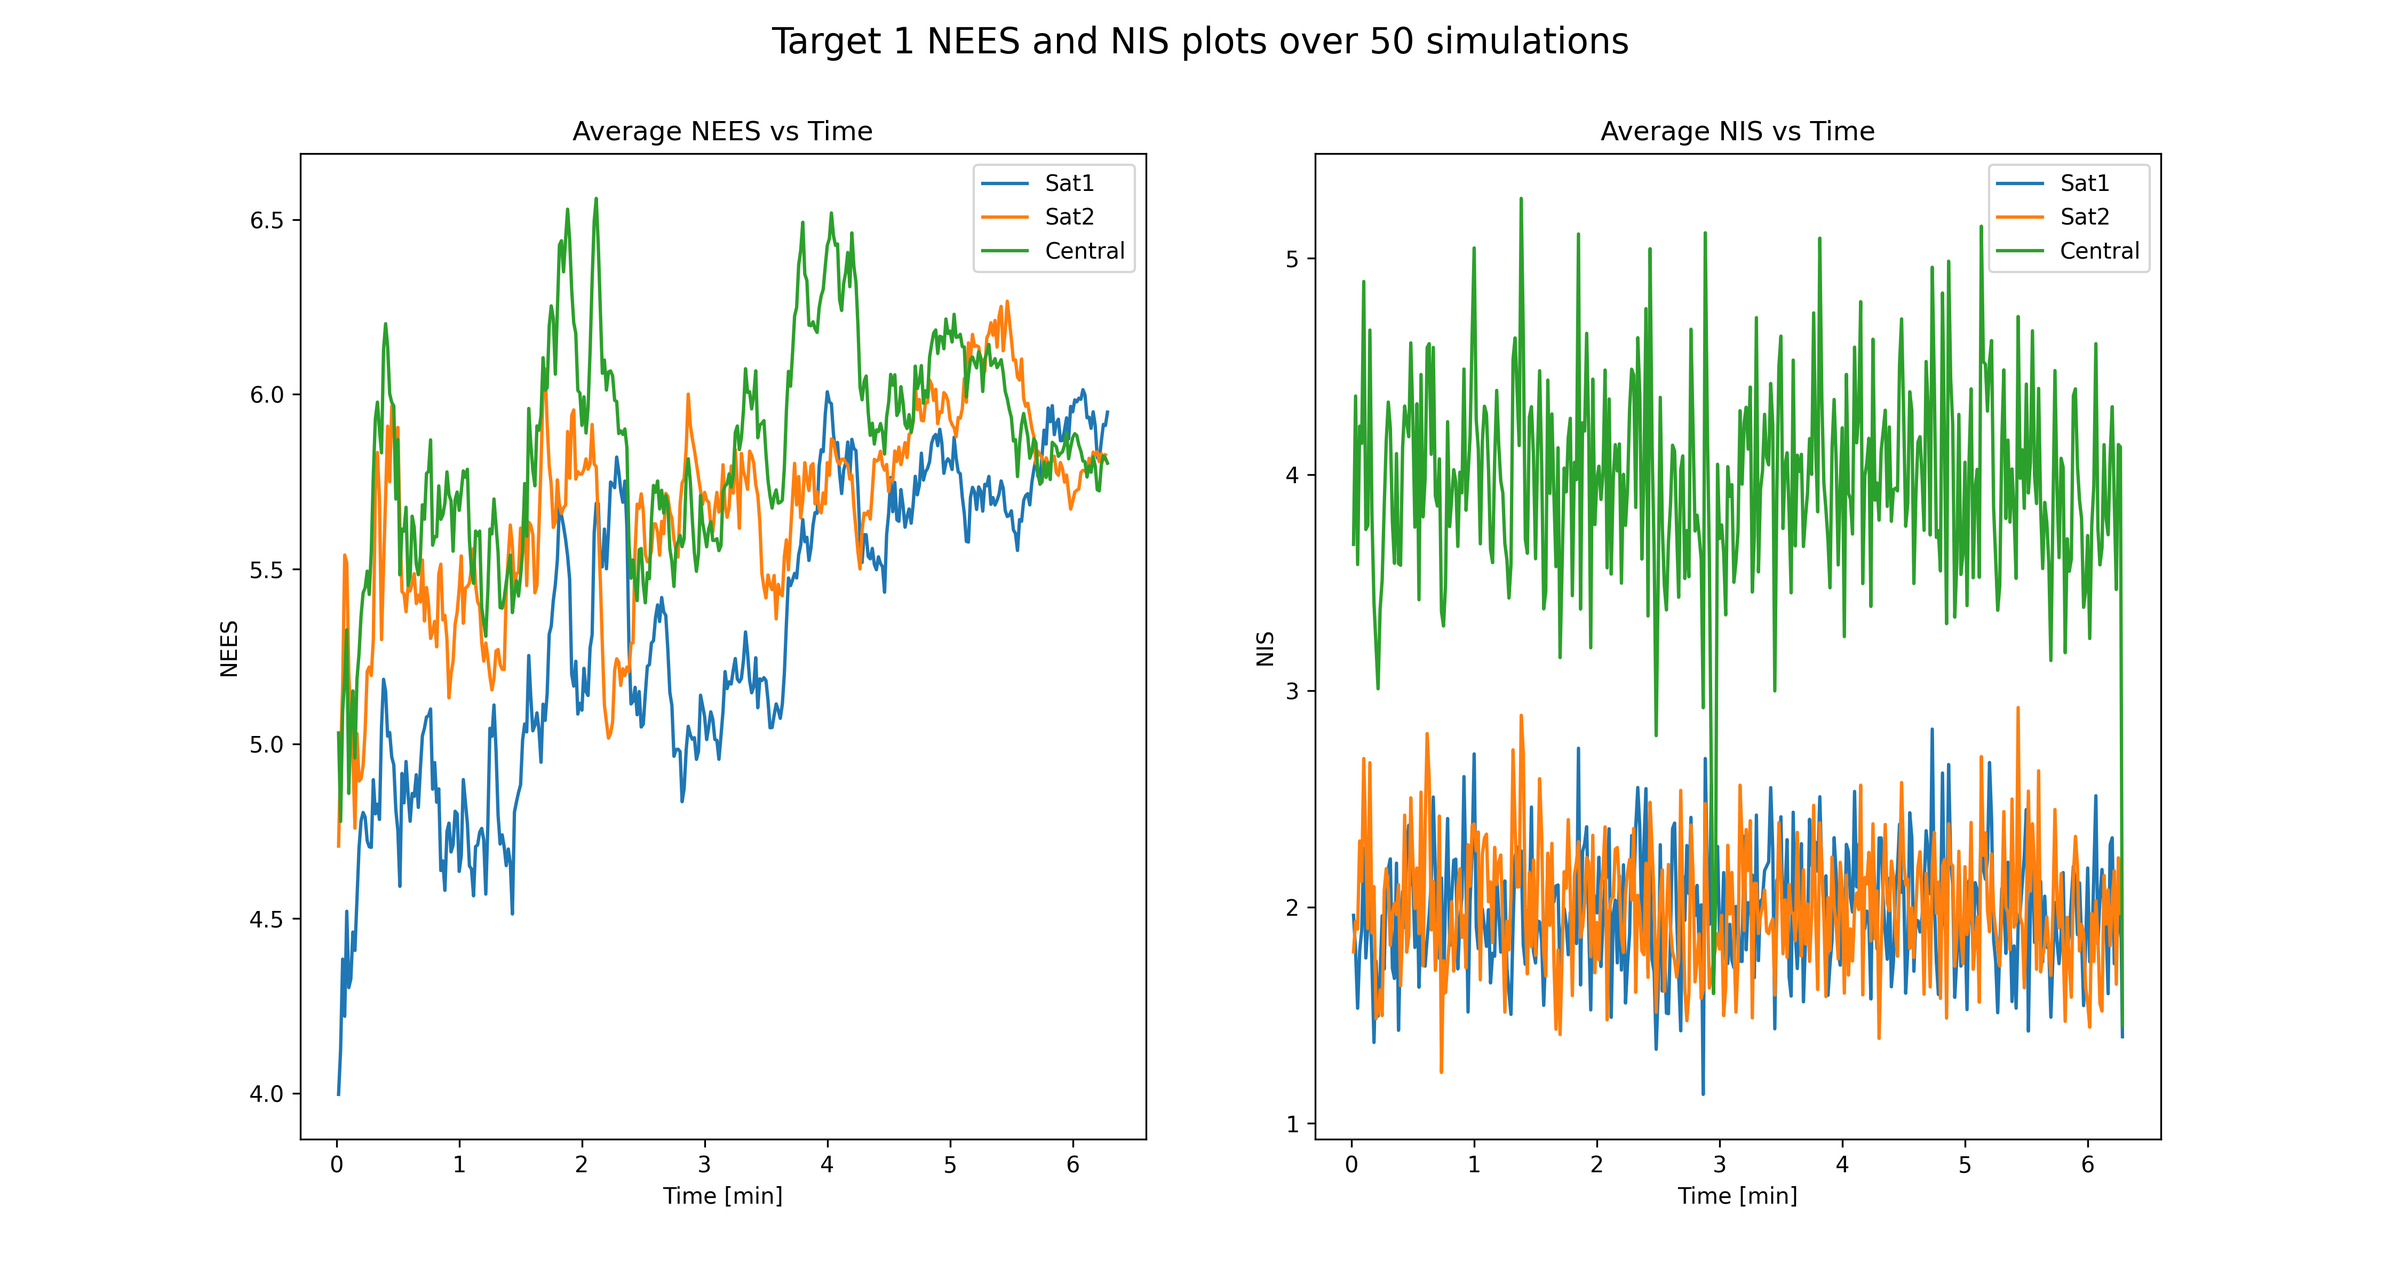
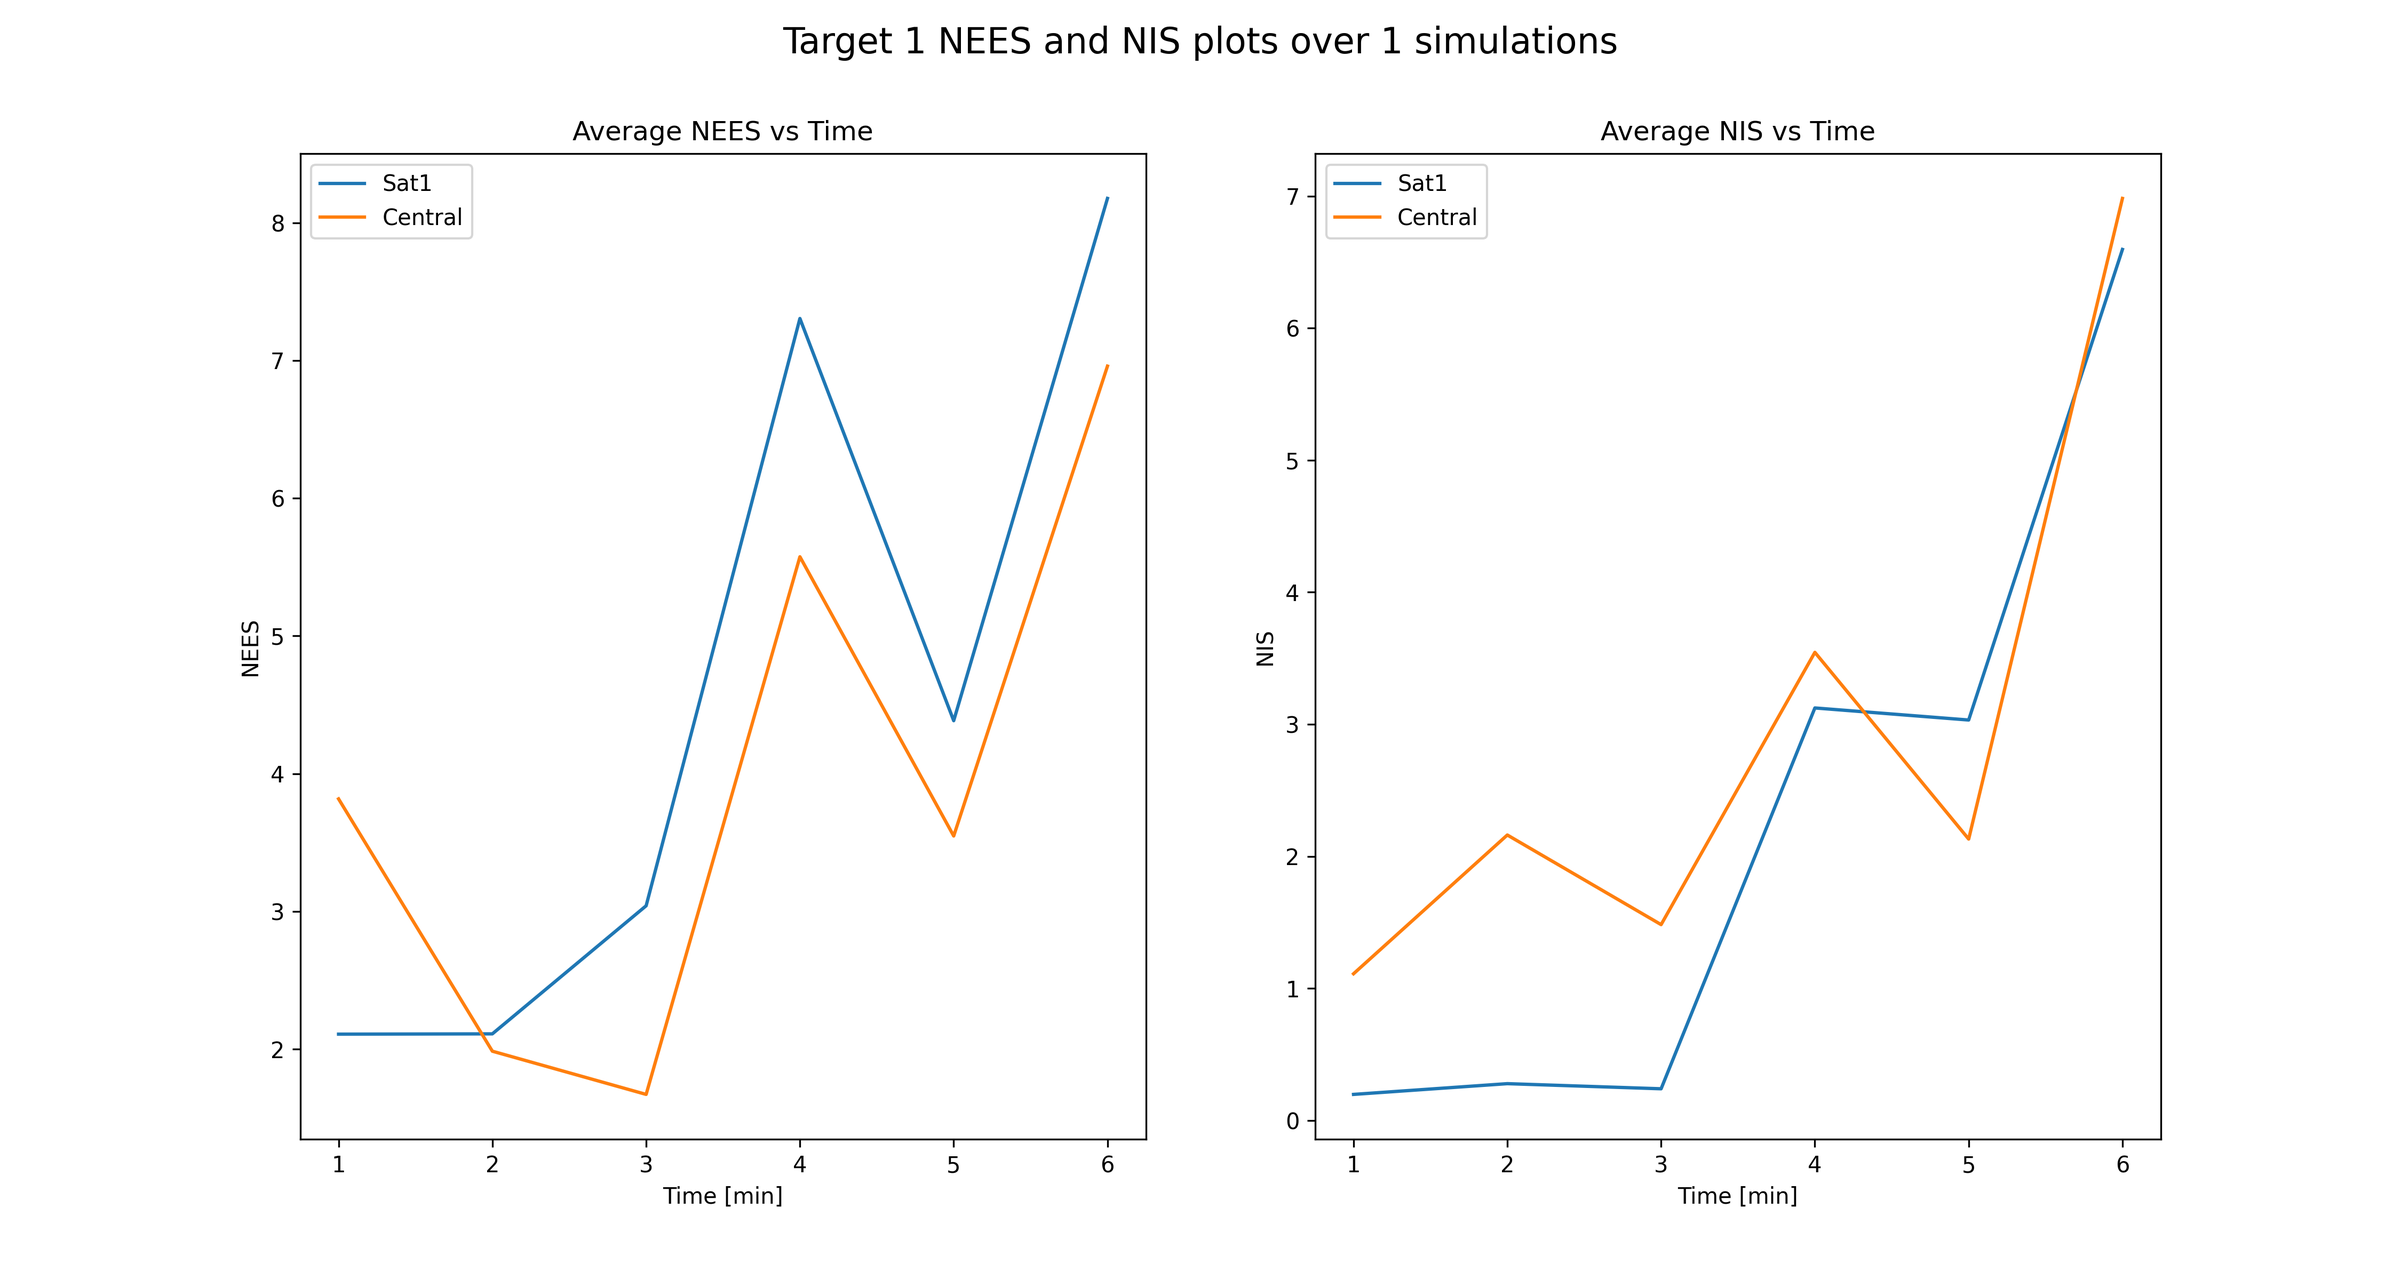
Squashed commit of the following:
commit 5e647257f25288f2edd2f32f9247ae3764552099
Merge: 92c8e0ce 59719893
Author: nolans12 <stevenson.r.nolan@gmail.com>
Date:   Thu Jun 20 12:42:54 2024 -0600

    Merge branch 'AidanBranch' of https://github.com/nolans12/Satellite-DDF into AidanBranch

commit 5971989326fef7af2d4452152ceea3dc8b31e62b
Author: aiba4531 <aiba4531@colorado.edu>
Date:   Thu Jun 20 12:00:19 2024 -0600

    Added AoA option mostly

commit 89277a5613da0652b87630bc921ffd2adf471cfc
Author: aiba4531 <aiba4531@colorado.edu>
Date:   Thu Jun 20 10:06:34 2024 -0600

    Updated CI

commit 92c8e0ce4371348021b847ea17da06491982ce9d
Merge: 292d686b ed1f56c8
Author: nolans12 <stevenson.r.nolan@gmail.com>
Date:   Wed Jun 19 21:29:31 2024 -0600

    Merge branch 'AidanBranch' of https://github.com/nolans12/Satellite-DDF into AidanBranch

commit ed1f56c82b9181cd8a2cd30a7c9062af05f47ad3
Author: aiba4531 <aiba4531@colorado.edu>
Date:   Wed Jun 19 21:01:07 2024 -0600

    Added Covariance Intersection functionality, needs tuning

commit 4db0e1dfe0fcc63f4e059b1fdf66f190e770999f
Merge: b392ebf9 66b76008
Author: aiba4531 <aiba4531@colorado.edu>
Date:   Wed Jun 19 19:48:34 2024 -0600

    Added ClimbRate

commit b392ebf921e65eb89bda892fe74528528f66bc70
Merge: 61dea849 dc4b83ce
Author: aiba4531 <aiba4531@colorado.edu>
Date:   Tue Jun 18 14:11:46 2024 -0600

    For Nolan Merge

commit 61dea8491d8fc0cd5a754a402c76b4a4e6d29efb
Merge: 39a25a9b cead9f0a
Author: aiba4531 <aiba4531@colorado.edu>
[…]

diff --git a/phase1/main.py b/phase1/main.py
@@ -5,7 +5,7 @@ from import_libraries import *
 from satelliteClass import satellite
 from targetClass import target
 from environmentClass import environment
-from estimatorClass import centralEstimator, localEstimator
+from estimatorClass import centralEstimator, localEstimator, dataFusion
 from sensorClass import sensor
 from commClass import comms
 
@@ -20,21 +20,24 @@ def create_environment():
     # Define targets for the satellites to track:
     targetIDs = [1]
 
-    # Define estimators:
+    # Define local estimators:
     local1 = localEstimator(targetIDs = targetIDs)
     local2 = localEstimator(targetIDs = targetIDs)
-    central = centralEstimator(targetIDs = targetIDs) 
+    central = centralEstimator(targetIDs = targetIDs) # TODO: why not just make centralized always do all targets? since it is the baseline?
 
+    # Define the Data Fusion Algorithm
+    dataFusionAlg = dataFusion(targetIDs = targetIDs)
+    
     # Define the satellites:
-    sat1 = satellite(name = 'Sat1', sensor = sens1, targetIDs=targetIDs, estimator = local1, a = Earth.R + 1000 * u.km, ecc = 0, inc = 90, raan = 0, argp = 80, nu = 0, color='b')
-    sat2 = satellite(name = 'Sat2', sensor = sens2, targetIDs=targetIDs, estimator = local2, a = Earth.R + 1000 * u.km, ecc = 0, inc = 90, raan = -45, argp = 80, nu = 0, color='r')
+    sat1 = satellite(name = 'Sat1', sensor = sens1, targetIDs=targetIDs, estimator = local1, dataFusion=dataFusionAlg, a = Earth.R + 1000 * u.km, ecc = 0, inc = 45, raan = 0, argp = 80, nu = 0, color='b')
+    sat2 = satellite(name = 'Sat2', sensor = sens2, targetIDs=targetIDs, estimator = local2, dataFusion=dataFusionAlg, a = Earth.R + 1000 * u.km, ecc = 0, inc = 90, raan = -45, argp = 80, nu = 0, color='r')
 
     sats = [sat1, sat2]
 
     # Define the target objects:
-    targ1 = target(name = 'Targ1', targetID=1, cords = np.array([90,0,0]), heading=0, speed=5, color = 'k')
-    targ2 = target(name = 'Targ2', targetID=2, cords = np.array([0,0,200]), heading=90, speed=100, color = 'r')
-    targs = [targ1]
+    targ1 = target(name = 'Targ1', targetID=1, cords = np.array([90,0,0]), heading=0, speed=5, climbrate = 0, color = 'k')
+    #targ2 = target(name = 'Targ2', targetID=2, cords = np.array([0,0,200]), heading=90, speed=100, climbrate = 1, color = 'r')
+    targs = [targ1]#, targ2]
 
     # Define the communication network:
     comms_network = comms(sats, maxNeighbors = 3, maxRange = 5000*u.km, minRange = 500*u.km, displayStruct = True)
@@ -107,21 +110,21 @@ def plot_NEES_NIS(simData):
 
 if __name__ == "__main__":
     # Vector of time for simulation:
-    time_vec = np.linspace(0, 10, 601) * u.minute
+    time_vec = np.linspace(0, 10, 11) * u.minute
 
     # Number of simulations:
-    numSims = 50
+    numSims = 1
     simData = defaultdict(dict)
     for i in range(numSims):
         print(f'Simulation {i + 1} out of {numSims}')
         # Create a new environment instance for each simulation run:
         env = create_environment()
         # Simulate the satellites through the vector of time:
-        simData[i] = env.simulate(time_vec, savePlot = True, saveName = str(i + 1), showSim = False)
+        simData[i] = env.simulate(time_vec, savePlot = True, saveName = str(i + 1), showSim = True)
 
         
     # Plot the NEES and NIS results:
-    plot_NEES_NIS(simData)
+    #plot_NEES_NIS(simData)
     
 
 # ### CLUSTER SIM BELOW:
@@ -139,6 +142,7 @@ if __name__ == "__main__":
 #     sens2_4 = sensor(name = 'Sensor 2.4', fov = 100, bearingsError = np.array([0.5, 0.5]), rangeError = 0.5, detectChance= 0.05, resolution = 720)
     
 #     # Define targets for the satellites to track:
+#     # TODO: should we just make the satellite track any target it can see?
 #     targetIDs = [1]
 
 
@@ -176,13 +180,13 @@ if __name__ == "__main__":
 #     targs = [targ1]
 
 # # Define the communication network:
-#     comms = comms(sats, maxNeighbors = 100, maxRange = 5000*u.km, minRange = 500*u.km, displayStruct = True)
+#     comms = comms(sats, range = 5000 * u.km, displayStruct = True)
 
 # # Create an environment instance:
 #     env = environment(sats, targs, comms, central)
 
 # # Simulate the satellites through a vector of time:
-#     time_vec = np.linspace(0, 50, 151) * u.minute
+#     time_vec = np.linspace(0, 50, 51) * u.minute
 #     env.simulate(time_vec, display = True)
 
 # # Save the gif:

diff --git a/phase1/environmentClass.py b/phase1/environmentClass.py
@@ -87,7 +87,7 @@ class environment:
         for sat in self.sats:
             sat.time = time_val
 
-    # Propagate the targets position
+        # Propagate the targets position
         for targ in self.targs:
 
             # Propagate the target
@@ -112,6 +112,18 @@ class environment:
         # Collect measurements on any avaliable targets
             collectedFlag[satNum] = sat.collect_measurements(self.targs) # if any measurement was collected, will be true
             satNum += 1
+            
+        # Check if other satellites collected information on same target -> do data fusion
+        CI_threshold = 1
+        if self.comms.displayStruct:
+            for sat in self.sats:
+                for sat2 in self.sats:
+                    if sat != sat2:
+                        if self.comms.G.has_edge(sat, sat2):
+                            for targetID in sat.targetIDs:
+                                if targetID in sat2.targetIDs:
+                                    if any(collectedFlag == 1): # TODO: if either satellite collected data or if threshold is met
+                                        sat.dataFusion.covariance_intersection(sat, sat2, targetID, time_val)                                    
 
         # Update Central Estimator on all targets if measurments were collected
         if any(collectedFlag == 1) and self.centralEstimator:
@@ -220,18 +232,29 @@ class environment:
                     covHist = sat.estimator.covarianceHist[targ.targetID]
                     innovationHist = sat.estimator.innovationHist[targ.targetID]
                     innovationCovHist = sat.estimator.innovationCovHist[targ.targetID]
+                    
+                    # Adding in Data Fusion Estimate
+                    CI_estHist = sat.dataFusion.CI_estHist[targ.targetID]
+                    CI_covHist = sat.dataFusion.CI_covHist[targ.targetID]
+                    
                     times = [time for time in time_vec.value if time in estHist]
+                    CI_times = [time for time in time_vec.value if time in CI_estHist]
 
                     # MEASUREMENT PLOTS
                     for i in range(6):
                         axes[i].scatter(times, [trueHist[time][i] for time in times], color='k', label='Truth', marker='o', s=15)
                         axes[i].plot(times, [estHist[time][i] for time in times], color=satColor, label='Kalman Estimate')
+                        axes[i].plot(CI_times, [CI_estHist[time][i] for time in CI_times], color='g', label='CI Estimate', marker='*')
 
                     # ERROR PLOTS
                     for i in range(6):
                         axes[6 + i].plot(times, [estHist[time][i] - trueHist[time][i] for time in times], color=satColor, linestyle='dashed', label='Error')
                         axes[6 + i].plot(times, [2 * np.sqrt(covHist[time][i][i]) for time in times], color=satColor, linestyle='dotted', label='2 Sigma Bounds')
                         axes[6 + i].plot(times, [-2 * np.sqrt(covHist[time][i][i]) for time in times], color=satColor, linestyle='dotted')
+                        
+                        axes[6 + i].plot(CI_times, [CI_estHist[time][i] - trueHist[time][i] for time in CI_times], color='g', linestyle='dashed', label='CI Error')
+                        axes[6 + i].plot(CI_times, [2 * np.sqrt(CI_covHist[time][i][i]) for time in CI_times], color='g', linestyle='dotted', label='CI 2 Sigma Bounds')
+                        axes[6 + i].plot(CI_times, [-2 * np.sqrt(CI_covHist[time][i][i]) for time in CI_times], color='g', linestyle='dotted')
 
                     # INNOVATION PLOTS
                     for i in range(2):  # Note: only 3 plots in the third row

diff --git a/phase1/estimatorClass.py b/phase1/estimatorClass.py
@@ -357,4 +357,69 @@ class localEstimator:
         
         return Q
 
+
+
+class dataFusion:
+    def __init__(self, targetIDs):
+        self.targs = targetIDs
+        
+        # Store Original Estimates and Covariances
+        self.estHist = {targetID: defaultdict(dict) for targetID in targetIDs}
+        self.covHist = {targetID: defaultdict(dict) for targetID in targetIDs}
+        
+        # Store Covariance Intersection Estimates and Covariances
+        self.CI_omegaOpt = {targetID: defaultdict(dict) for targetID in targetIDs}
+        self.CI_estHist = {targetID: defaultdict(dict) for targetID in targetIDs}
+        self.CI_covHist = {targetID: defaultdict(dict) for targetID in targetIDs}
+        
     
+    def covariance_intersection(self, sat1, sat2, targetID, envTime):
+        # Grab the most recent estimate and covariance on common target for both satellites
+        time_prior = max(sat1.estimator.estHist[targetID].keys())
+        
+        est1 = sat1.estimator.estHist[targetID][time_prior]
+        est2 = sat2.estimator.estHist[targetID][time_prior]
+        cov1 = sat1.estimator.covarianceHist[targetID][time_prior]
+        cov2 = sat2.estimator.covarianceHist[targetID][time_prior]
+        
+        # Minimum Covariance Determinant
+        omegaOpt= minimize(self.det_of_fused_covariance, [0.5], args=(cov1, cov2), bounds=[(0, 1)]).x
+        
+        # Compute Fused Covariance
+        covFused = np.linalg.inv(omegaOpt * np.linalg.inv(cov1) + (1 - omegaOpt) * np.linalg.inv(cov2))
+        estFused = covFused @ (omegaOpt*np.linalg.inv(cov1) @ est1 + (1-omegaOpt)*np.linalg.inv(cov2) @ est2)
+        
+        # Store fused covariance and estimate as most recent estimate and covariance
+        self.estHist[targetID][envTime] = est1
+        self.covHist[targetID][envTime] = cov1
+        self.CI_estHist[targetID][envTime] = estFused
+        self.CI_covHist[targetID][envTime] = covFused
+        self.CI_omegaOpt[targetID][envTime] = omegaOpt
+        
+        # Update in satellite structure
+        # sat1.estimator.estHist[targetID][envTime] = estFused
+        # sat1.estimator.covarianceHist[targetID][envTime] = covFused
+        # sat2.estimator.estHist[targetID][envTime] = estFused
+        # sat2.estimator.covarianceHist[targetID][envTime] = covFused
+        
+        # Print Out the New State Estimate and Covaraince
+        # np.set_printoptions(precision=4, suppress=True)
+
+        # print('*' * 50)
+        # print(f"Sat1 Estimate:\n{est1}")
+        # print(f"Sat1 Covariance:\n{cov1}\n")
+        # print(f"Sat2 Estimate:\n{est2}")
+        # print(f"Sat2 Covariance:\n{cov2}\n")
+        # print(f"Fused Estimate:\n{estFused}")
+        # print(f"Fused Covariance:\n{covFused}")
+        # print(f"Optimal Weight: {omegaOpt}")
+        # print('*' * 50)
+        
+    
+    def det_of_fused_covariance(self, omega, cov1, cov2):
+        # Calculate the determinant of the fused covariance matrix
+        # omega is the weight of the first covariance matrix
+        # cov1 and cov2 are the covariance matrices of the two estimates
+        omega = omega[0]
+        P = np.linalg.inv(omega * np.linalg.inv(cov1) + (1 - omega) * np.linalg.inv(cov2))
+        return np.linalg.det(P)

diff --git a/phase1/targetClass.py b/phase1/targetClass.py
@@ -4,7 +4,7 @@ from import_libraries import *
 # Target class that moves linearly around the earth with constant velocity
 # Inputs: Name, TargetID, Initial Position, Heading, Speed, Color
 class target:
-    def __init__(self, name, targetID, cords, heading, speed, color):
+    def __init__(self, name, targetID, cords, heading, speed, climbrate, color, changeAoA = False):
         # Intial target ID, name, color
         self.targetID = targetID
         self.name = name
@@ -16,10 +16,12 @@ class target:
         # Desired State X = [range, rangeRate, elevation, elevationRate, azimuth, azimuthRate]' -> [km, km/s, rad, rad/s, rad, rad/s]
         # Input: Cords = [lat lon alt] -> [deg, deg, km]
         #        Heading = Deg CW from North
-        #        Speed = Speed km/min           add climb rate later
+        #        Speed = Speed km/min           
+        #        ClimbRate = Rate of climb km/min
                 
         range = cords[2] + 6378 # range from center of earth km
-        rangeRate = 0 # constant altitude
+        rangeRate = climbrate # constant altitude
+        self.changaAoA = changeAoA # True if target should change Angle of Attack 
         
         elevation = np.deg2rad(cords[0]) # [rad] latitude where 0 is equator
         azimuth = np.deg2rad(cords[1]) # [rad] longitude where 0 prime meridian
@@ -48,6 +50,15 @@ class target:
                       [0, 0, 0, 0, 0, 0],
                       [0, 0, 0, 0, 0, 1],
                       [0, 0, 0, 0, 0, 0]])
+        
+        #B = np.array([0, 1, 0, 0, 0, 0]).T # Assume control input can only change angle of attack
+        # TODO: Add control input to change angle of attack
+        if (self.changaAoA):
+            # Change angle of attack every 10 minutes
+            if (time % 10 == 0):
+                # Change angle of attack
+                self.X[1] = -self.X[1]
+            
         
         # Assume no control input, then new state = prev state + xdot*dt
         x_dot = np.dot(A, self.X)

diff --git a/phase1/satelliteClass.py b/phase1/satelliteClass.py
@@ -2,7 +2,7 @@ from import_libraries import *
 ## Creates the satellite class, will contain the poliastro orbit and all other parameters needed to define the orbit
 
 class satellite:
-    def __init__(self, a, ecc, inc, raan, argp, nu, sensor, targetIDs, estimator, name, color):
+    def __init__(self, a, ecc, inc, raan, argp, nu, sensor, targetIDs, estimator, dataFusion, name, color):
     
     # Sensor to use
         self.sensor = sensor
@@ -13,6 +13,9 @@ class satellite:
 
     # Estimator to use
         self.estimator = estimator
+    
+    # Data Fusion to use
+        self.dataFusion = dataFusion
 
     # Other parameters
         self.name = name

diff --git a/phase1/import_libraries.py b/phase1/import_libraries.py
@@ -25,4 +25,6 @@ from mpl_toolkits.mplot3d import Axes3D
 from mpl_toolkits.mplot3d.art3d import Poly3DCollection
 from scipy.spatial.transform import Rotation as R
 from scipy.linalg import block_diag
+from scipy.optimize import minimize
 from collections import defaultdict
+from ambiance import Atmosphere # NOLAN install this libray for Std Atm
